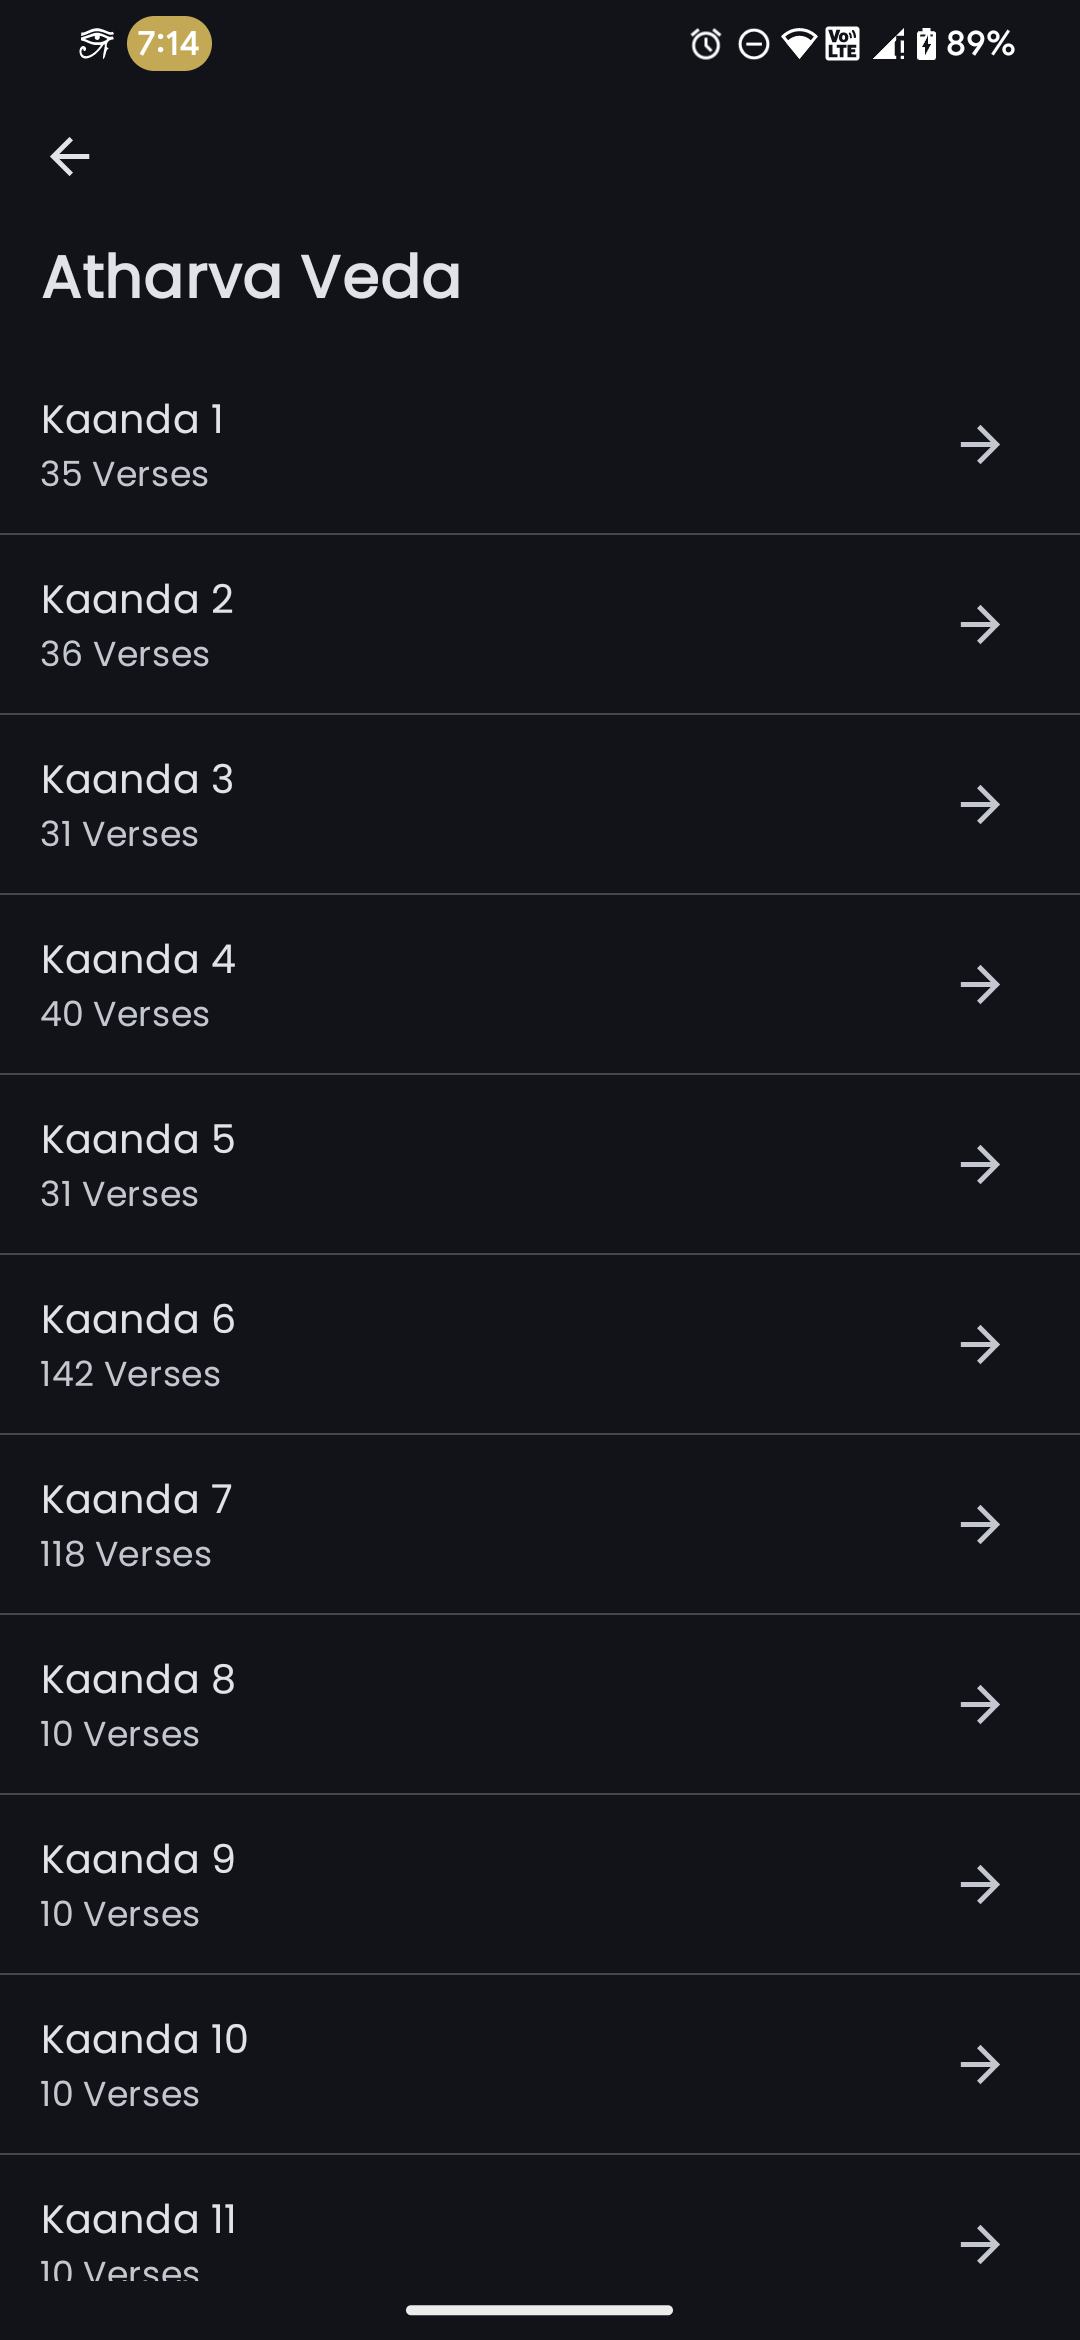
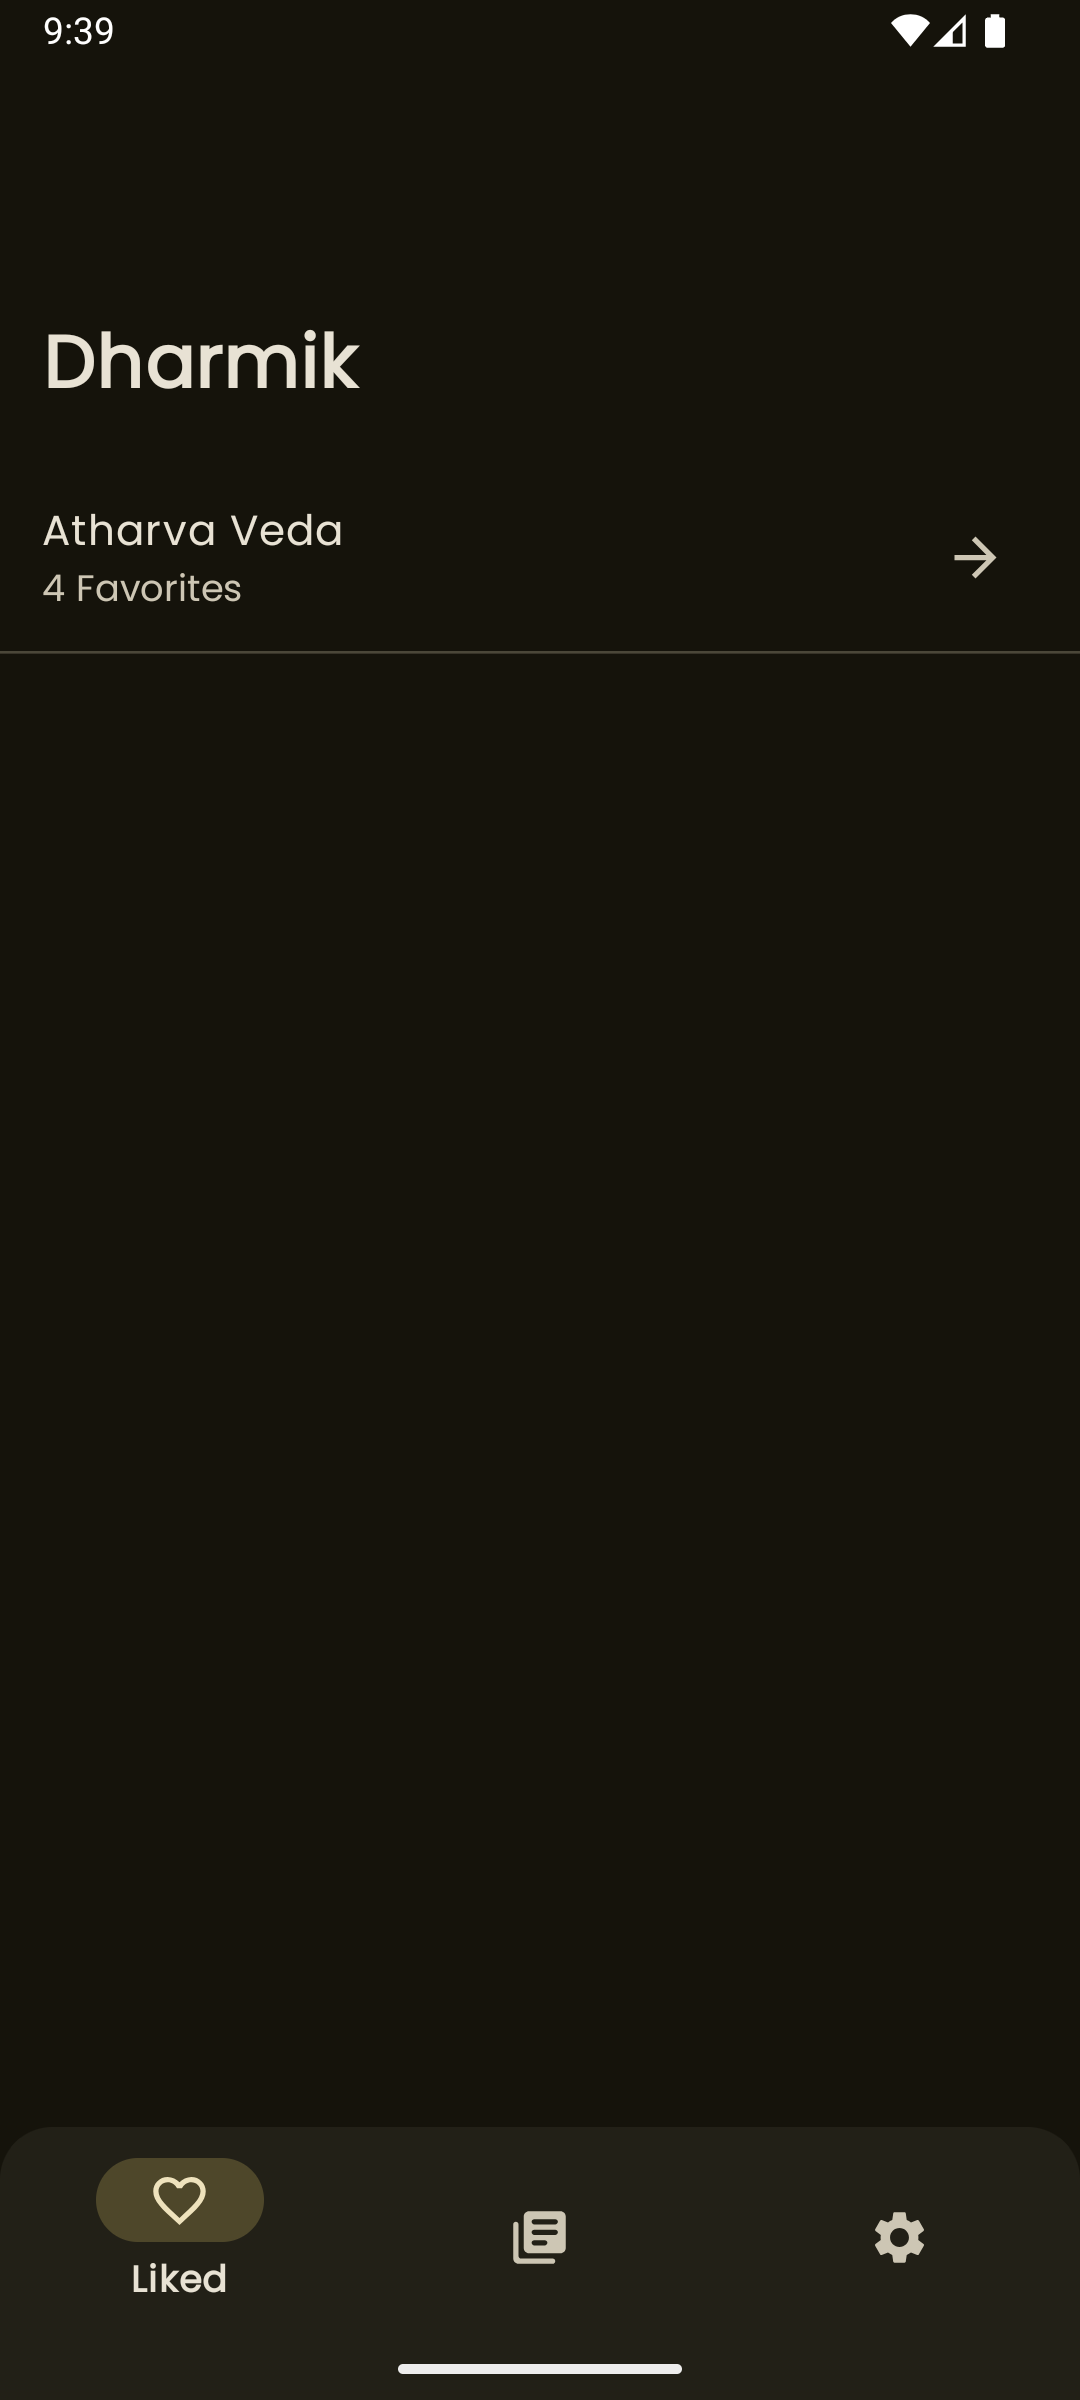
:sparkles: Implemented Favorites Page
Ai_Generated {
* Added a new page to view favorite verses.
* Updated the Favorites Section on the home page to display the number of favorite verses and provide navigation to the new page.
* Modified the verses page to display verses in a pager view.
}

* pretty accurate imo

diff --git a/composeApp/src/commonMain/kotlin/com/shub39/dharmik/core/presentation/home/FavoritesSection.kt b/composeApp/src/commonMain/kotlin/com/shub39/dharmik/core/presentation/home/FavoritesSection.kt
@@ -1,149 +1,72 @@
 package com.shub39.dharmik.core.presentation.home
 
 import androidx.compose.animation.animateContentSize
-import androidx.compose.foundation.layout.Arrangement
 import androidx.compose.foundation.layout.Box
-import androidx.compose.foundation.layout.Column
 import androidx.compose.foundation.layout.Spacer
 import androidx.compose.foundation.layout.fillMaxSize
-import androidx.compose.foundation.layout.fillMaxWidth
 import androidx.compose.foundation.layout.padding
-import androidx.compose.foundation.layout.size
 import androidx.compose.foundation.lazy.LazyColumn
-import androidx.compose.foundation.lazy.items
-import androidx.compose.foundation.lazy.rememberLazyListState
 import androidx.compose.material.icons.Icons
-import androidx.compose.material.icons.filled.Favorite
-import androidx.compose.material.icons.filled.FavoriteBorder
+import androidx.compose.material.icons.automirrored.filled.ArrowForward
 import androidx.compose.material3.HorizontalDivider
 import androidx.compose.material3.Icon
 import androidx.compose.material3.IconButton
 import androidx.compose.material3.ListItem
-import androidx.compose.material3.MaterialTheme
 import androidx.compose.material3.Text
 import androidx.compose.runtime.Composable
-import androidx.compose.runtime.getValue
-import androidx.compose.runtime.mutableStateOf
-import androidx.compose.runtime.remember
-import androidx.compose.runtime.setValue
 import androidx.compose.ui.Alignment
 import androidx.compose.ui.Modifier
-import androidx.compose.ui.platform.LocalClipboardManager
-import androidx.compose.ui.text.buildAnnotatedString
-import androidx.compose.ui.text.font.FontFamily
-import androidx.compose.ui.text.style.TextAlign
 import androidx.compose.ui.unit.dp
-import com.shub39.dharmik.atharva_veda.presentation.AvAction
+import androidx.navigation.NavController
+import com.shub39.dharmik.app.Routes
 import com.shub39.dharmik.atharva_veda.presentation.AvState
-import com.shub39.dharmik.core.presentation.components.scrollbar
 import dharmik.composeapp.generated.resources.Res
-import dharmik.composeapp.generated.resources.liked_placeholder
-import dharmik.composeapp.generated.resources.noto_regular
-import dharmik.composeapp.generated.resources.round_content_copy_24
-import org.jetbrains.compose.resources.Font
-import org.jetbrains.compose.resources.painterResource
+import dharmik.composeapp.generated.resources.atharva_veda
+import dharmik.composeapp.generated.resources.favorites_template
 import org.jetbrains.compose.resources.stringResource
 
 @Composable
 fun FavoritesSection(
-    avState: AvState,
-    avAction: (AvAction) -> Unit,
+    navController: NavController,
+    avState: AvState
 ) = Box {
-    val scrollState = rememberLazyListState()
-
-    val fontFamily = FontFamily(Font(Res.font.noto_regular))
-    val clipboardManager = LocalClipboardManager.current
-
     LazyColumn(
-        state = scrollState,
         modifier = Modifier
             .animateContentSize()
-            .scrollbar(
-                state = scrollState,
-                horizontal = false,
-                alignEnd = true,
-                thickness = 8.dp,
-                knobCornerRadius = 4.dp,
-                trackCornerRadius = 4.dp,
-                knobColor = MaterialTheme.colorScheme.primary,
-                trackColor = MaterialTheme.colorScheme.primaryContainer
-            )
             .fillMaxSize(),
         horizontalAlignment = Alignment.CenterHorizontally
     ) {
-        items(avState.favorites, key = { it.text }) { kaanda ->
-            ListItem(
-                headlineContent = {
-                    Text(
-                        text = kaanda.text,
-                        fontFamily = fontFamily
-                    )
-                },
-                supportingContent = {
-                    Text(
-                        text = "${kaanda.sukta} : ${kaanda.kaanda} || ${kaanda.samhita} || ${kaanda.veda}"
-                    )
-                },
-                trailingContent = {
-                    var isFave by remember { mutableStateOf(avState.favorites.contains(kaanda)) }
+       item {
+           ListItem(
+               headlineContent = {
+                   Text(
+                       text = stringResource(Res.string.atharva_veda)
+                   )
+               },
+               supportingContent = {
+                   Text(
+                       text = stringResource(Res.string.favorites_template, avState.favorites.size)
+                   )
+               },
+               trailingContent = {
+                   IconButton(
+                       onClick = {
+                           navController.navigate(Routes.AvFavVersesPage)
+                       },
+                       enabled = avState.favorites.isNotEmpty()
+                   ) {
+                       Icon(
+                           imageVector = Icons.AutoMirrored.Default.ArrowForward,
+                           contentDescription = "Navigate"
+                       )
+                   }
+               }
+           )
 
-                    Column {
-                        IconButton(
-                            onClick = {
-                                clipboardManager.setText(
-                                    annotatedString = buildAnnotatedString {
-                                        append(kaanda.text)
-                                    }
-                                )
-                            }
-                        ) {
-                            Icon(
-                                painter = painterResource(Res.drawable.round_content_copy_24),
-                                contentDescription = "Copy to clipboard"
-                            )
-                        }
-
-                        IconButton(
-                            onClick = {
-                                avAction(AvAction.SetFave(kaanda))
-                                isFave = !isFave
-                            }
-                        ) {
-                            Icon(
-                                imageVector = if (isFave) Icons.Default.Favorite else Icons.Default.FavoriteBorder,
-                                contentDescription = "Favorite"
-                            )
-                        }
-                    }
-                }
-            )
-
-            HorizontalDivider()
-        }
+           HorizontalDivider()
+       }
 
         item {
-            if (avState.favorites.isEmpty()) {
-                Column(
-                    modifier = Modifier
-                        .padding(top = 100.dp)
-                        .fillMaxWidth(),
-                    verticalArrangement = Arrangement.Center,
-                    horizontalAlignment = Alignment.CenterHorizontally
-                ) {
-                    Icon(
-                        imageVector = Icons.Default.FavoriteBorder,
-                        contentDescription = "Favorites",
-                        modifier = Modifier.size(200.dp),
-                        tint = MaterialTheme.colorScheme.onSurface.copy(alpha = 0.5f)
-                    )
-
-                    Text(
-                        text = stringResource(Res.string.liked_placeholder),
-                        color = MaterialTheme.colorScheme.onSurface.copy(alpha = 0.5f),
-                        textAlign = TextAlign.Center
-                    )
-                }
-            }
             Spacer(modifier = Modifier.padding(60.dp))
         }
     }

diff --git a/composeApp/src/commonMain/kotlin/com/shub39/dharmik/atharva_veda/presentation/AvFavVersesPage.kt b/composeApp/src/commonMain/kotlin/com/shub39/dharmik/atharva_veda/presentation/AvFavVersesPage.kt
@@ -43,7 +43,7 @@ import androidx.compose.ui.unit.dp
 import androidx.navigation.NavController
 import com.shub39.dharmik.core.presentation.components.ContentCap
 import dharmik.composeapp.generated.resources.Res
-import dharmik.composeapp.generated.resources.kaanda_template
+import dharmik.composeapp.generated.resources.atharva_veda
 import dharmik.composeapp.generated.resources.noto_regular
 import dharmik.composeapp.generated.resources.round_content_copy_24
 import kotlinx.coroutines.launch
@@ -53,16 +53,16 @@ import org.jetbrains.compose.resources.stringResource
 
 @OptIn(ExperimentalMaterial3Api::class)
 @Composable
-fun AvVersesPage(
+fun AvFavVersesPage(
     navController: NavController,
     state: AvState,
     action: (AvAction) -> Unit,
 ) = ContentCap {
     val coroutineScope = rememberCoroutineScope()
-    val pagerState = rememberPagerState { state.currentKaandas.size }
+    val pagerState = rememberPagerState { state.favorites.size }
     var sliderPosition by remember { mutableStateOf(0f) }
 
-    val kaandas = state.currentKaandas.size
+    val favoritesSize = state.favorites.size
 
     val fontFamily = FontFamily(Font(Res.font.noto_regular))
     val clipboardManager = LocalClipboardManager.current
@@ -73,10 +73,7 @@ fun AvVersesPage(
             TopAppBar(
                 title = {
                     Text(
-                        text = stringResource(
-                            Res.string.kaanda_template,
-                            state.currentKaandas.first().kaanda
-                        )
+                        text = stringResource(Res.string.atharva_veda)
                     )
                 },
                 navigationIcon = {
@@ -114,12 +111,12 @@ fun AvVersesPage(
                     Slider(
                         modifier = Modifier.weight(1f),
                         value = sliderPosition,
-                        steps =when  {
-                            kaandas > 100 -> (kaandas - 2) / 5
-                            kaandas > 50 -> (kaandas - 2) / 3
-                            else -> kaandas - 2
-                        }.coerceAtLeast(0),
-                        valueRange = 0f..state.currentKaandas.size.toFloat().minus(1),
+                        steps = when  {
+                            favoritesSize > 100 -> (favoritesSize - 2) / 5
+                            favoritesSize > 50 -> (favoritesSize - 2) / 3
+                            else -> favoritesSize - 2
+                        },
+                        valueRange = 0f..state.favorites.size.toFloat().minus(1),
                         onValueChange = {
                             coroutineScope.launch {
                                 sliderPosition = it
@@ -135,7 +132,7 @@ fun AvVersesPage(
                                 pagerState.animateScrollToPage(pagerState.currentPage + 1)
                             }
                         },
-                        enabled = pagerState.currentPage < state.currentKaandas.size - 1
+                        enabled = pagerState.currentPage < state.favorites.size - 1
                     ) {
                         Icon(
                             imageVector = Icons.AutoMirrored.Default.ArrowForward,
@@ -152,7 +149,7 @@ fun AvVersesPage(
             modifier = Modifier.fillMaxSize(),
             contentPadding = padding
         ) { index ->
-            val currentVerse by remember { mutableStateOf(state.currentKaandas[index]) }
+            val currentVerse by remember { mutableStateOf(state.favorites[index]) }
             val colors = CardDefaults.cardColors()
 
             Card(

diff --git a/composeApp/src/commonMain/kotlin/com/shub39/dharmik/app/App.kt b/composeApp/src/commonMain/kotlin/com/shub39/dharmik/app/App.kt
@@ -10,6 +10,7 @@ import androidx.navigation.compose.NavHost
 import androidx.navigation.compose.composable
 import androidx.navigation.compose.navigation
 import androidx.navigation.compose.rememberNavController
+import com.shub39.dharmik.atharva_veda.presentation.AvFavVersesPage
 import com.shub39.dharmik.atharva_veda.presentation.AvKaandasPage
 import com.shub39.dharmik.atharva_veda.presentation.AvVersesPage
 import com.shub39.dharmik.atharva_veda.presentation.AvViewModel
@@ -43,8 +44,7 @@ fun App(
             composable<Routes.Home> {
                 Home(
                     navController = navController,
-                    avState = avState,
-                    avAction = avvm::onAction
+                    avState = avState
                 )
             }
 
@@ -61,6 +61,14 @@ fun App(
 
                 composable<Routes.AvVersesPage> {
                     AvVersesPage(
+                        navController = navController,
+                        state = avState,
+                        action = avvm::onAction
+                    )
+                }
+
+                composable<Routes.AvFavVersesPage> {
+                    AvFavVersesPage(
                         navController = navController,
                         state = avState,
                         action = avvm::onAction

diff --git a/composeApp/src/commonMain/kotlin/com/shub39/dharmik/core/presentation/home/Home.kt b/composeApp/src/commonMain/kotlin/com/shub39/dharmik/core/presentation/home/Home.kt
@@ -22,7 +22,6 @@ import androidx.compose.ui.draw.clip
 import androidx.compose.ui.unit.dp
 import androidx.navigation.NavController
 import com.shub39.dharmik.app.Routes
-import com.shub39.dharmik.atharva_veda.presentation.AvAction
 import com.shub39.dharmik.atharva_veda.presentation.AvState
 import com.shub39.dharmik.core.presentation.components.ContentCap
 import dharmik.composeapp.generated.resources.Res
@@ -41,7 +40,6 @@ import org.jetbrains.compose.resources.stringResource
 fun Home(
     navController: NavController,
     avState: AvState,
-    avAction: (AvAction) -> Unit,
 ) = ContentCap {
     val destinations = listOf(
         Routes.LikedSection,
@@ -109,8 +107,8 @@ fun Home(
         ) {
             when (it) {
                 Routes.LikedSection -> FavoritesSection(
-                    avState = avState,
-                    avAction = avAction
+                    navController = navController,
+                    avState = avState
                 )
                 Routes.LibrarySection -> LibrarySection(navController)
                 else -> SettingsSection()

diff --git a/composeApp/src/androidMain/kotlin/com/shub39/dharmik/Preview.kt b/composeApp/src/androidMain/kotlin/com/shub39/dharmik/Preview.kt
@@ -1,0 +1,33 @@
+package com.shub39.dharmik
+
+import androidx.compose.runtime.Composable
+import androidx.compose.ui.tooling.preview.Preview
+import androidx.navigation.compose.rememberNavController
+import com.shub39.dharmik.atharva_veda.domain.AvVerse
+import com.shub39.dharmik.atharva_veda.presentation.AvState
+import com.shub39.dharmik.atharva_veda.presentation.AvVersesPage
+import com.shub39.dharmik.core.domain.AppThemes
+import com.shub39.dharmik.core.presentation.theme.DharmikTheme
+
+@Preview
+@Composable
+fun AvVersesPreview() = DharmikTheme(
+    darkTheme = true,
+    appTheme = AppThemes.YELLOW
+) {
+    AvVersesPage(
+        navController = rememberNavController(),
+        state = AvState(
+            currentKaandas = (0..100).map { 
+                AvVerse(
+                    veda = "Random Veda",
+                    samhita = "xyz",
+                    kaanda = it,
+                    sukta = it,
+                    text = "Verse $it"
+                )
+            }
+        ),
+        action = {}
+    )
+}

diff --git a/composeApp/src/commonMain/kotlin/com/shub39/dharmik/app/Routes.kt b/composeApp/src/commonMain/kotlin/com/shub39/dharmik/app/Routes.kt
@@ -7,8 +7,6 @@ sealed interface Routes {
     @Serializable
     data object Home: Routes
     @Serializable
-    data object BookMarksSection: Routes
-    @Serializable
     data object LikedSection: Routes
     @Serializable
     data object LibrarySection: Routes
@@ -21,5 +19,7 @@ sealed interface Routes {
     data object AvKaandasPage: Routes
     @Serializable
     data object AvVersesPage: Routes
+    @Serializable
+    data object AvFavVersesPage: Routes
 
 }
